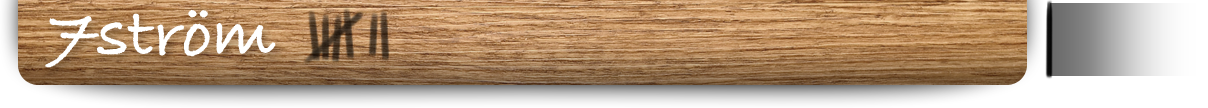
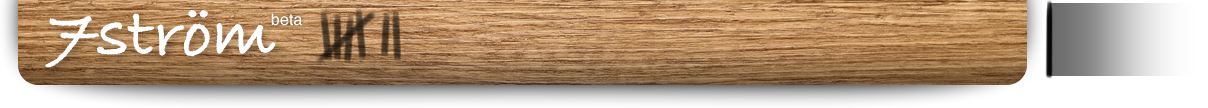
beta annotation, temporarily limited max players to 2 players

Changed region(s): [[0.2144, 0.0833, 0.3369, 0.5833]]

diff --git a/css/games.css b/css/games.css
@@ -16,7 +16,7 @@
 	font-size: 14px;
 }
 .create .instructions {
-	font-size: 13px;
+	font-size: 12px;
 }
 .create #createBtn {
 	background: url(/gfx/games/create.png) no-repeat 0px -371px;
